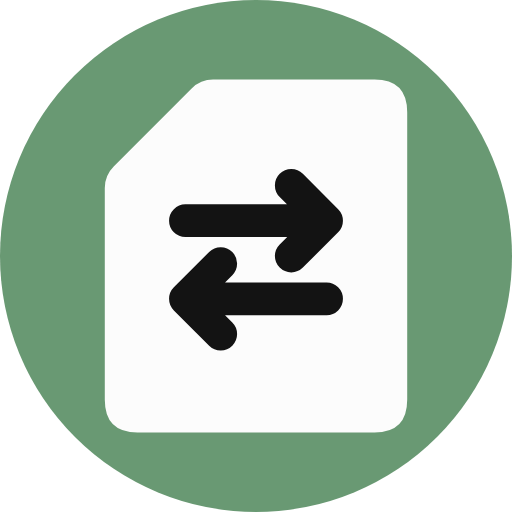
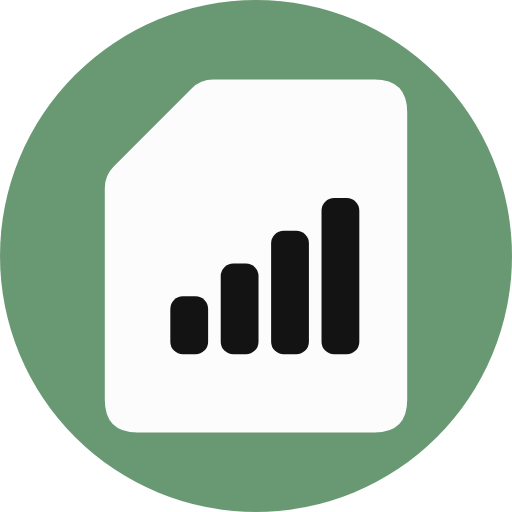
brand: 图标改用信号格；关于页反馈行支持跳 QQ
上一版把「C 信号格」当成了 D 做，这里改回来：卡心四根同底线递增的格子，
斜切角管「这是 SIM」，格子管「运营商信号」。32px 下格子仍然分得开，
比箭头版更耐小。单色层要镂空，格子得写成带圆弧的填充路径而不是 rect。

关于页的反馈行加 QQ_JOIN_URL：填上群二维码那条 qm.qq.com/cgi-bin/qm/qr?k=…
就直接跳加群，没填则退回复制群号。不用 qun.qq.com 的 universal-share 链接——
它的 busi_data 里解出来是群主 uin 加一次性 token，进公开仓库等于泄露凭据。

Changed region(s): [[0.3125, 0.3125, 0.7188, 0.7188]]

diff --git a/app/src/main/java/com/qianxi/simlet/ui/screen/AboutScreen.kt b/app/src/main/java/com/qianxi/simlet/ui/screen/AboutScreen.kt
@@ -32,12 +32,19 @@ import dev.reicon.MessageCircle
 
 private const val PROJECT_URL = "https://github.com/vip458/Simlet"
 
-/**
- * 反馈群只放群号：QQ 的加群跳转链接带一次性签名 token，
- * 那种 URL 公开在仓库里等于把群主的凭据发出去，而且会过期。
- * 所以这里点一下复制群号，用户自己去 QQ 搜。
- */
 private const val QQ_GROUP = "551772286"
+
+/**
+ * 点这一行跳去 QQ 加群。
+ *
+ * 只认群二维码里那条 `https://qm.qq.com/cgi-bin/qm/qr?k=…`：key 属于群本身，谁点都一样，
+ * 公开在仓库里没有代价。另一种 `qun.qq.com/universal-share/share?…busi_data=…` 的
+ * base64 里解出来是群主的 uin 加一次性 token，那种串进仓库等于把群主凭据发出去，
+ * 而且过一阵就失效，所以不用它。
+ *
+ * 空串 = 还没拿到群二维码链接，这时点这一行退回「复制群号」。
+ */
+private const val QQ_JOIN_URL = ""
 
 /**
  * 关于页：居中 logo 块 + 行列表 + 底部灰脚注，全部照参考稿那张关于页的结构。
@@ -92,8 +99,12 @@ fun AboutScreen(onBack: () -> Unit, onOpenLicenses: () -> Unit) {
                     icon = MessageCircle.Outline,
                     value = stringResource(R.string.about_feedback_value),
                     onClick = {
-                        clipboard.setText(AnnotatedString(QQ_GROUP))
-                        Toast.makeText(context, copiedHint, Toast.LENGTH_SHORT).show()
+                        if (QQ_JOIN_URL.isEmpty()) {
+                            clipboard.setText(AnnotatedString(QQ_GROUP))
+                            Toast.makeText(context, copiedHint, Toast.LENGTH_SHORT).show()
+                        } else {
+                            context.openWebPage(QQ_JOIN_URL)
+                        }
                     }
                 )
                 RowDivider()

diff --git a/brand/README.md b/brand/README.md
@@ -1,8 +1,8 @@
 # Simlet 品牌资源
 
-图标讲的是这个应用在干的事：**一张 SIM 卡，内容被改写。**
+图标讲的是这个应用在干的事：**一张 SIM 卡，它被读到的东西改写了。**
 
-左上那道斜切角是 SIM 的身份（没有斜切角它就只是一张白卡片），卡心一上一下两条反向箭头是「覆盖、改写」——国家码和运营商名都是盖掉系统读到的那份配置，不动卡本身。两个形状、三种颜色，缩到 40px 还认得出来，这是它能直接当 QQ 头像用的原因。
+左上那道斜切角是 SIM 的身份（没有斜切角它就只是一张白卡片），卡心四根同底线递增的格子是运营商信号——状态栏那排格子读的就是这里改出来的国家码与运营商名。两个形状、三种颜色，缩到 40px 还认得出来，这是它能直接当 QQ 头像用的原因。
 
 > 第一版在卡心放的是定位图钉，一眼被读成地图/定位软件——图钉是个比 SIM 强得多的符号，语义会被抢走。所以这里宁可少一点抓眼，也不留错类别。
 
@@ -25,9 +25,9 @@
 画布 512×512，图形写在 240×280 的卡上、居中于 (256,256)，再整体放大 1.15 撑满底（圆底头像版放大 1.26）。
 
 - 卡：`x 136..376`、`y 116..396`，圆角 26，左上 76 斜切（斜切两端各倒 10 圆角，别留尖角）
-- 箭头：26 描边、圆帽圆角。上条水平 `y=228`、`x 200..312`，箭头尖朝右；下条水平 `y=290`、`x 200..312`，箭头尖朝左。两条错开半个身位，中间留 36 的空隙
+- 信号格：四根 30 宽、圆角 10，`x` 依次 188 / 228 / 268 / 308（间距 10），**同一条底线 `y=334`**，高度依次 46 / 72 / 98 / 124（每根比左边那根高 36）
 
-单色版是**一条路径 + `fill-rule="evenodd"`**：卡实、两条箭头镂空。这里箭头必须写成实心多边形（镂空只能镂空填充形状，描边进不了 evenOdd），所以杆端补了 13 的圆帽、箭头尖保留直角。
+单色版是**一条路径 + `fill-rule="evenodd"`**：卡实、四根格子镂空。格子因此要写成带圆弧的填充路径而不是 `<rect>`——镂空只能镂空填充形状。
 
 Android 启动图标复用同一批路径：`app/src/main/res/drawable/ic_launcher_foreground.xml` 里用 `<group>` 把 512 画布缩到 108 自适应画布，缩放系数 `0.1746 = 32.2 / 184.4`（184.4 是卡角到中心的距离，32.2 留在 66dp 可见圆里）。**改形状要两边一起改**，别在启动图标里另画一套。
 
@@ -44,7 +44,7 @@ Android 启动图标复用同一批路径：`app/src/main/res/drawable/ic_launch
 ## 红线
 
 - 不加投影、渐变、描边外发光、圆角外发光——这两个形状本身就够了
-- 不拉伸、不斜切、不给箭头换方向；只允许整体等比缩放
+- 不拉伸、不斜切、不给信号格换排序方向（矮→高只能是从左到右）；只允许整体等比缩放
 - 主图标四周留白不小于卡宽的 18%；嫌挤就用 `simlet-avatar.svg`，别自己裁
 - 别把卡画成正方形：斜切角是这张图唯一的「这是 SIM」的线索
 - 别往卡心放图钉、地球、旗子这类自带类别的符号——放什么就被读成什么
